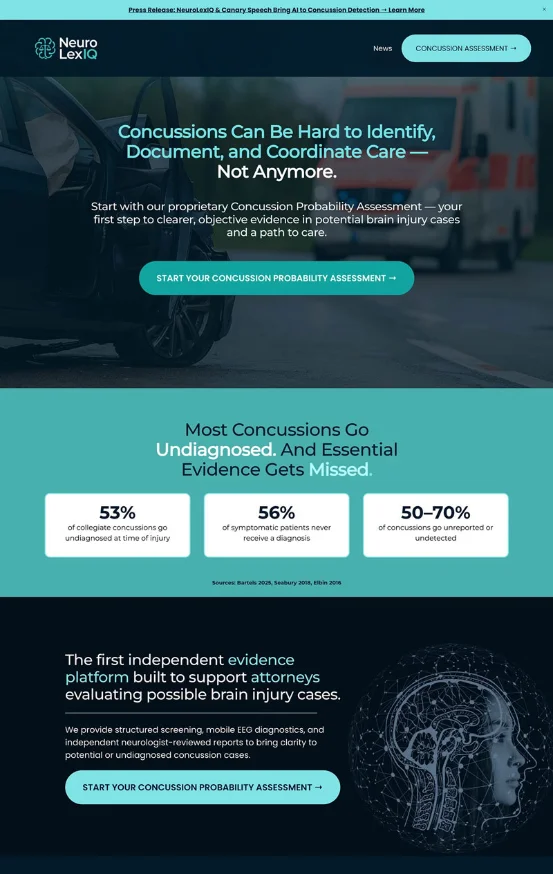
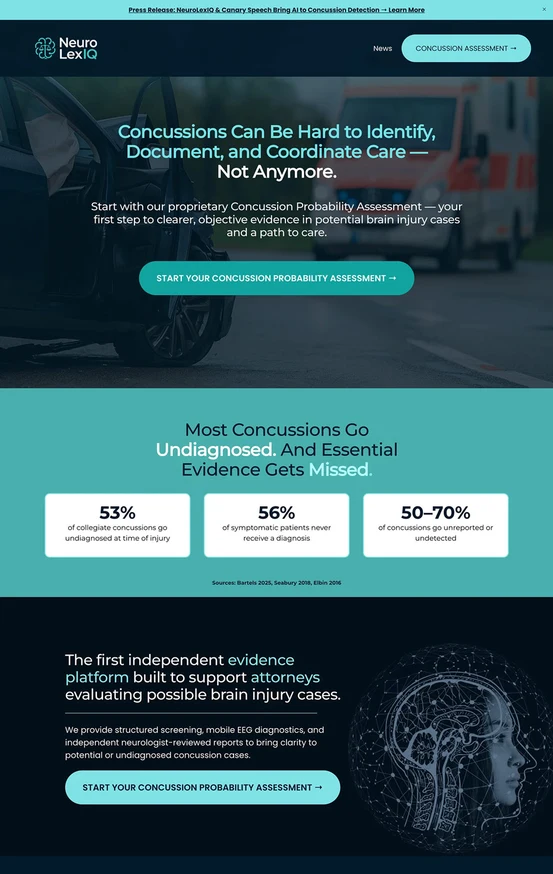
Rebuild NeuroLexIQ g1 thumb from top of full image; align mobile case titles with subhead

diff --git a/mobilecheck.js b/mobilecheck.js
@@ -1,0 +1,25 @@
+const { chromium } = require('playwright');
+const fs = require('fs');
+(async () => {
+  const browser = await chromium.launch();
+  const ctx = await browser.newContext({ viewport: { width: 390, height: 844 }, isMobile: true, hasTouch: true });
+  await ctx.route('**/*unpkg.com/**', route => {
+    const url = route.request().url();
+    let file = url.includes('react-dom') ? '/home/claude/vendor/umd/react-dom.production.min.js' : url.includes('react') ? '/home/claude/vendor/umd/react.production.min.js' : null;
+    if (file) route.fulfill({ status: 200, contentType: 'application/javascript', body: fs.readFileSync(file, 'utf8') });
+    else route.abort();
+  });
+  const page = await ctx.newPage();
+  await page.goto('http://localhost:8899/', { waitUntil: 'load' });
+  await page.waitForTimeout(2000);
+  const card = page.locator('h3', { hasText: 'NeuroLexIQ' }).first();
+  await card.scrollIntoViewIfNeeded(); await card.tap();
+  await page.waitForTimeout(1200);
+  const tX = await page.$eval('h1', el => Math.round(el.getBoundingClientRect().left));
+  const sX = await page.$$eval('p', els => { const el = els.find(e => e.textContent.includes('Bridging product vision') || e.textContent.length > 40); return Math.round(el.getBoundingClientRect().left); });
+  console.log('title left:', tX, '| subhead left:', sX);
+  await page.evaluate(() => { const el = document.querySelector('.gallery-item'); if (el) el.scrollIntoView({ block: 'center' }); });
+  await page.waitForTimeout(500);
+  await page.screenshot({ path: '/home/claude/mobile-g1.png' });
+  await browser.close();
+})();

diff --git a/index.html b/index.html
@@ -45,7 +45,7 @@
   .nav-links a[href="#contact"] { display: none !important; }
   .case-mode aside { display: none !important; }
   .case-back { padding: 16px 20px 0 !important; }
-  .case-title-pad { padding: 0 16px 4px !important; }
+  .case-title-pad { padding: 0 16px 4px 0 !important; }
   .case-foot { padding: 0 20px 60px !important; justify-content: center !important; text-align: center; }
   .ext-arrow { display: none !important; }
   .site-grid { display: block !important; padding-left: 0 !important; }